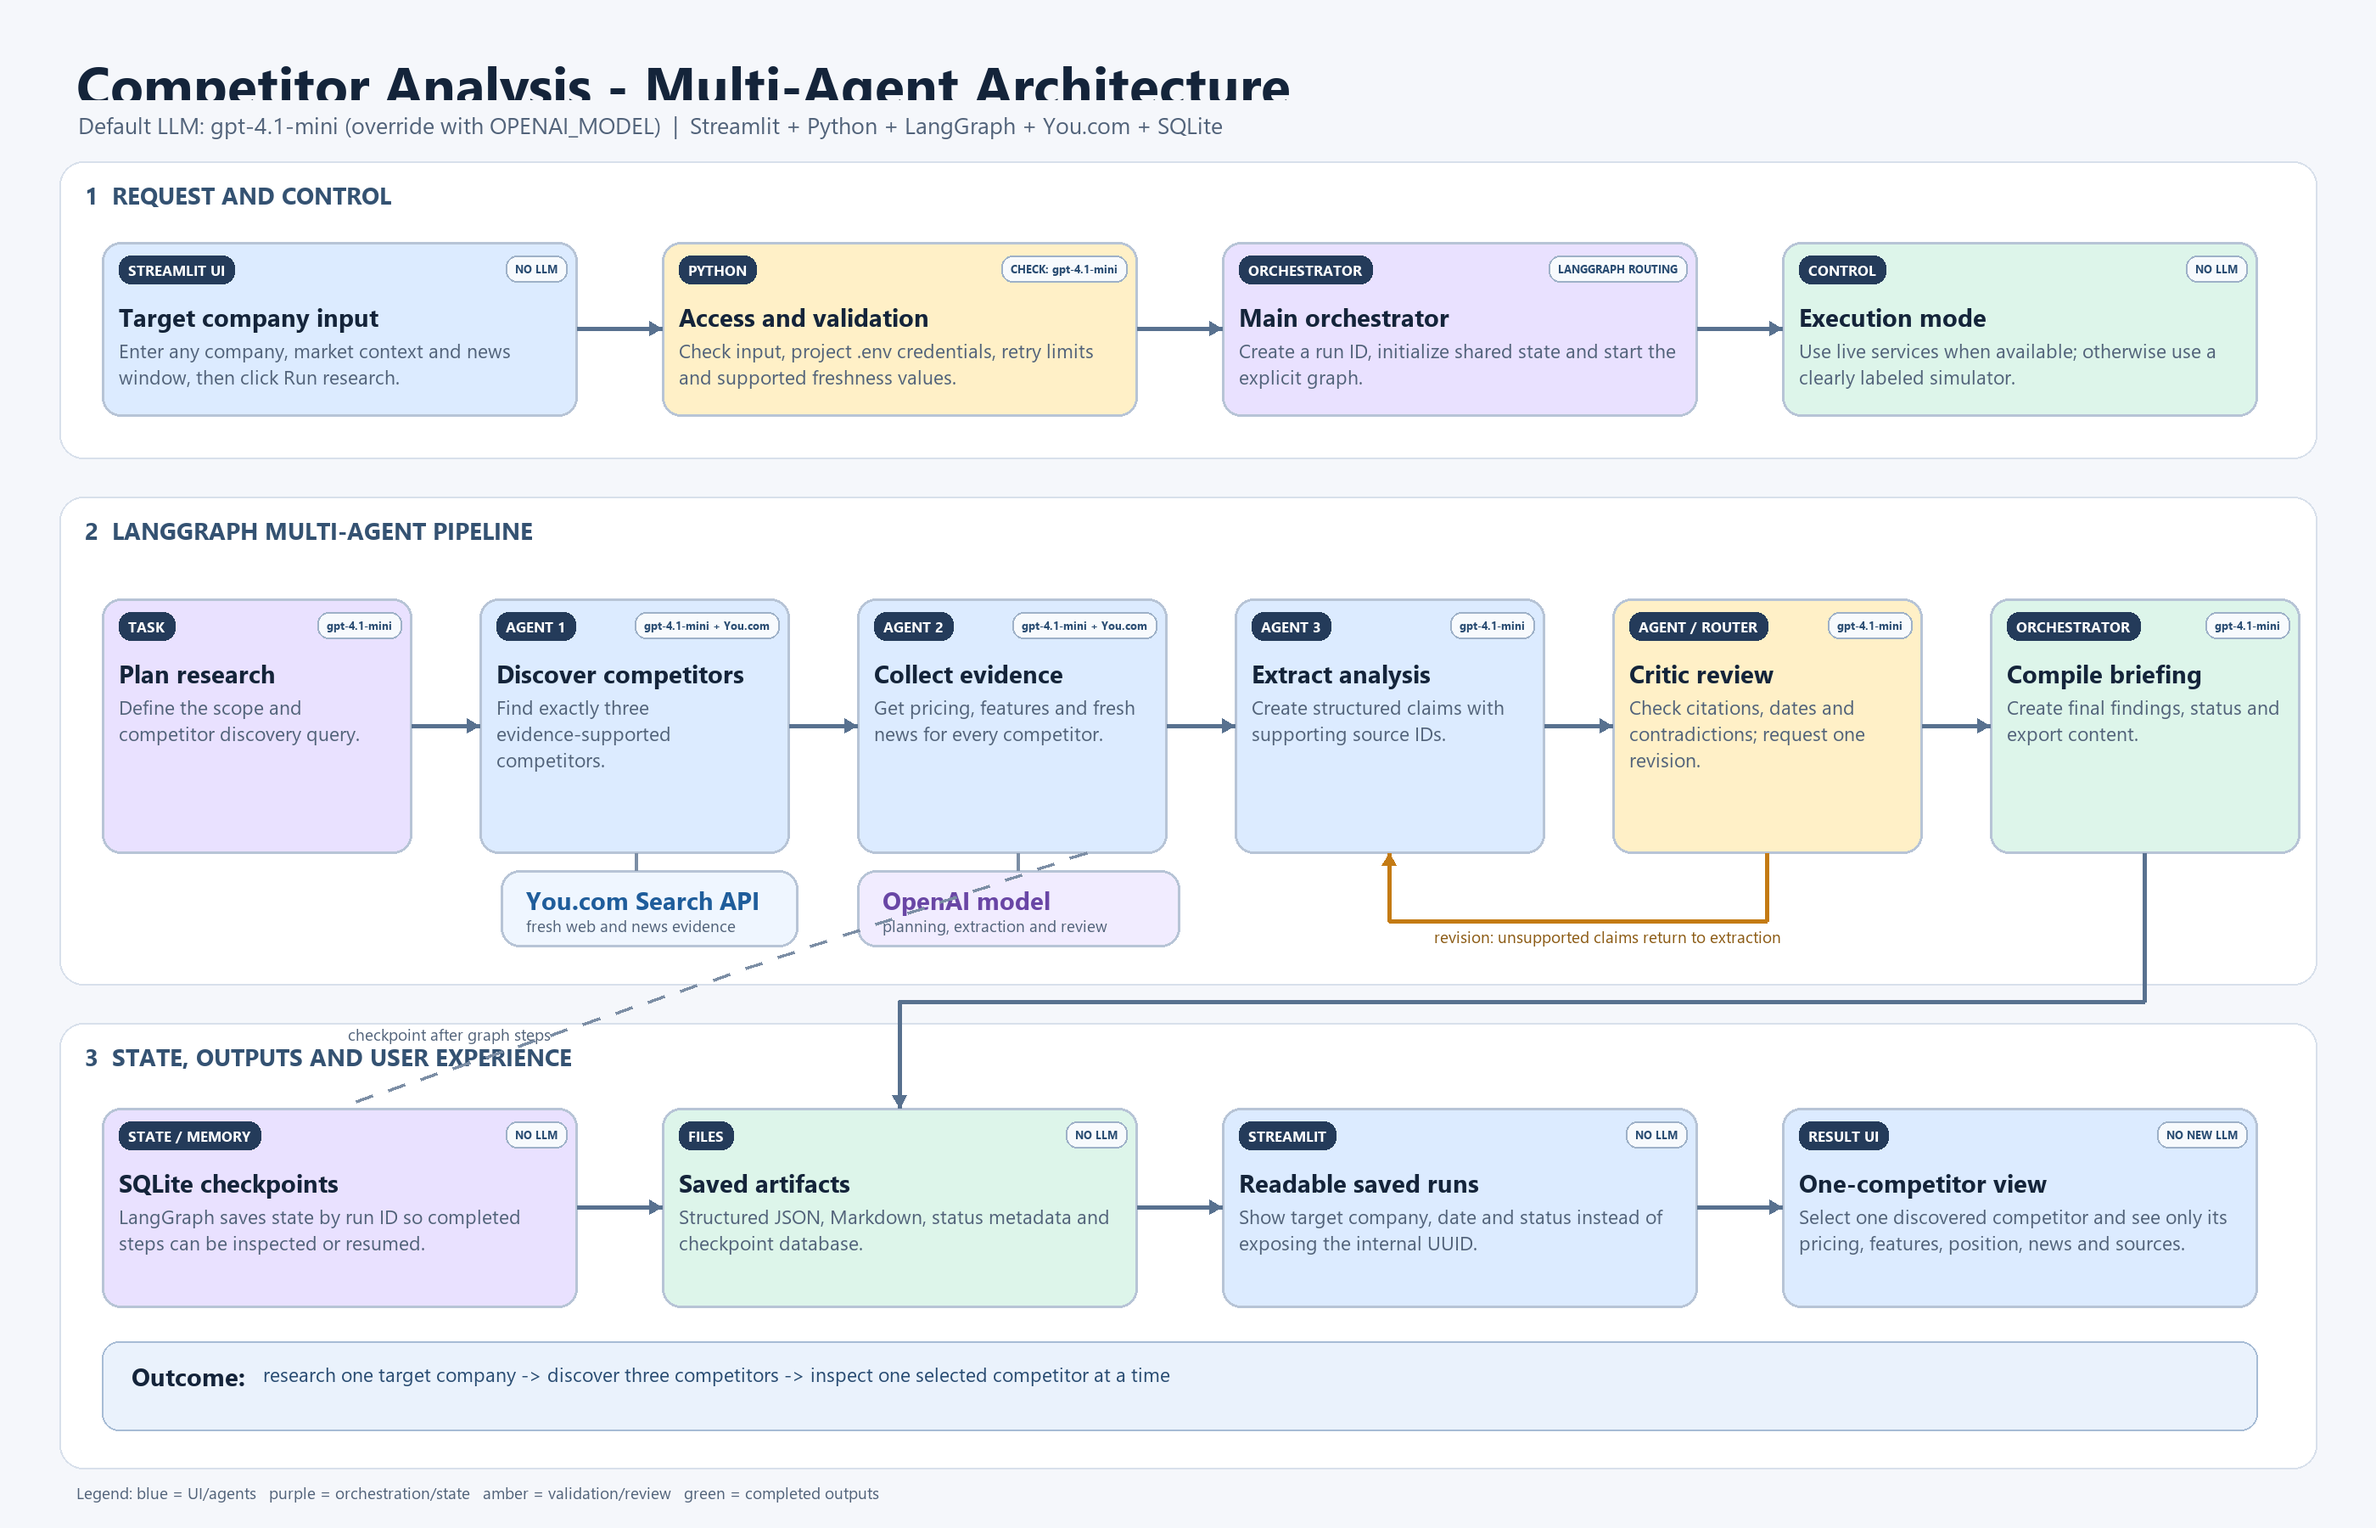
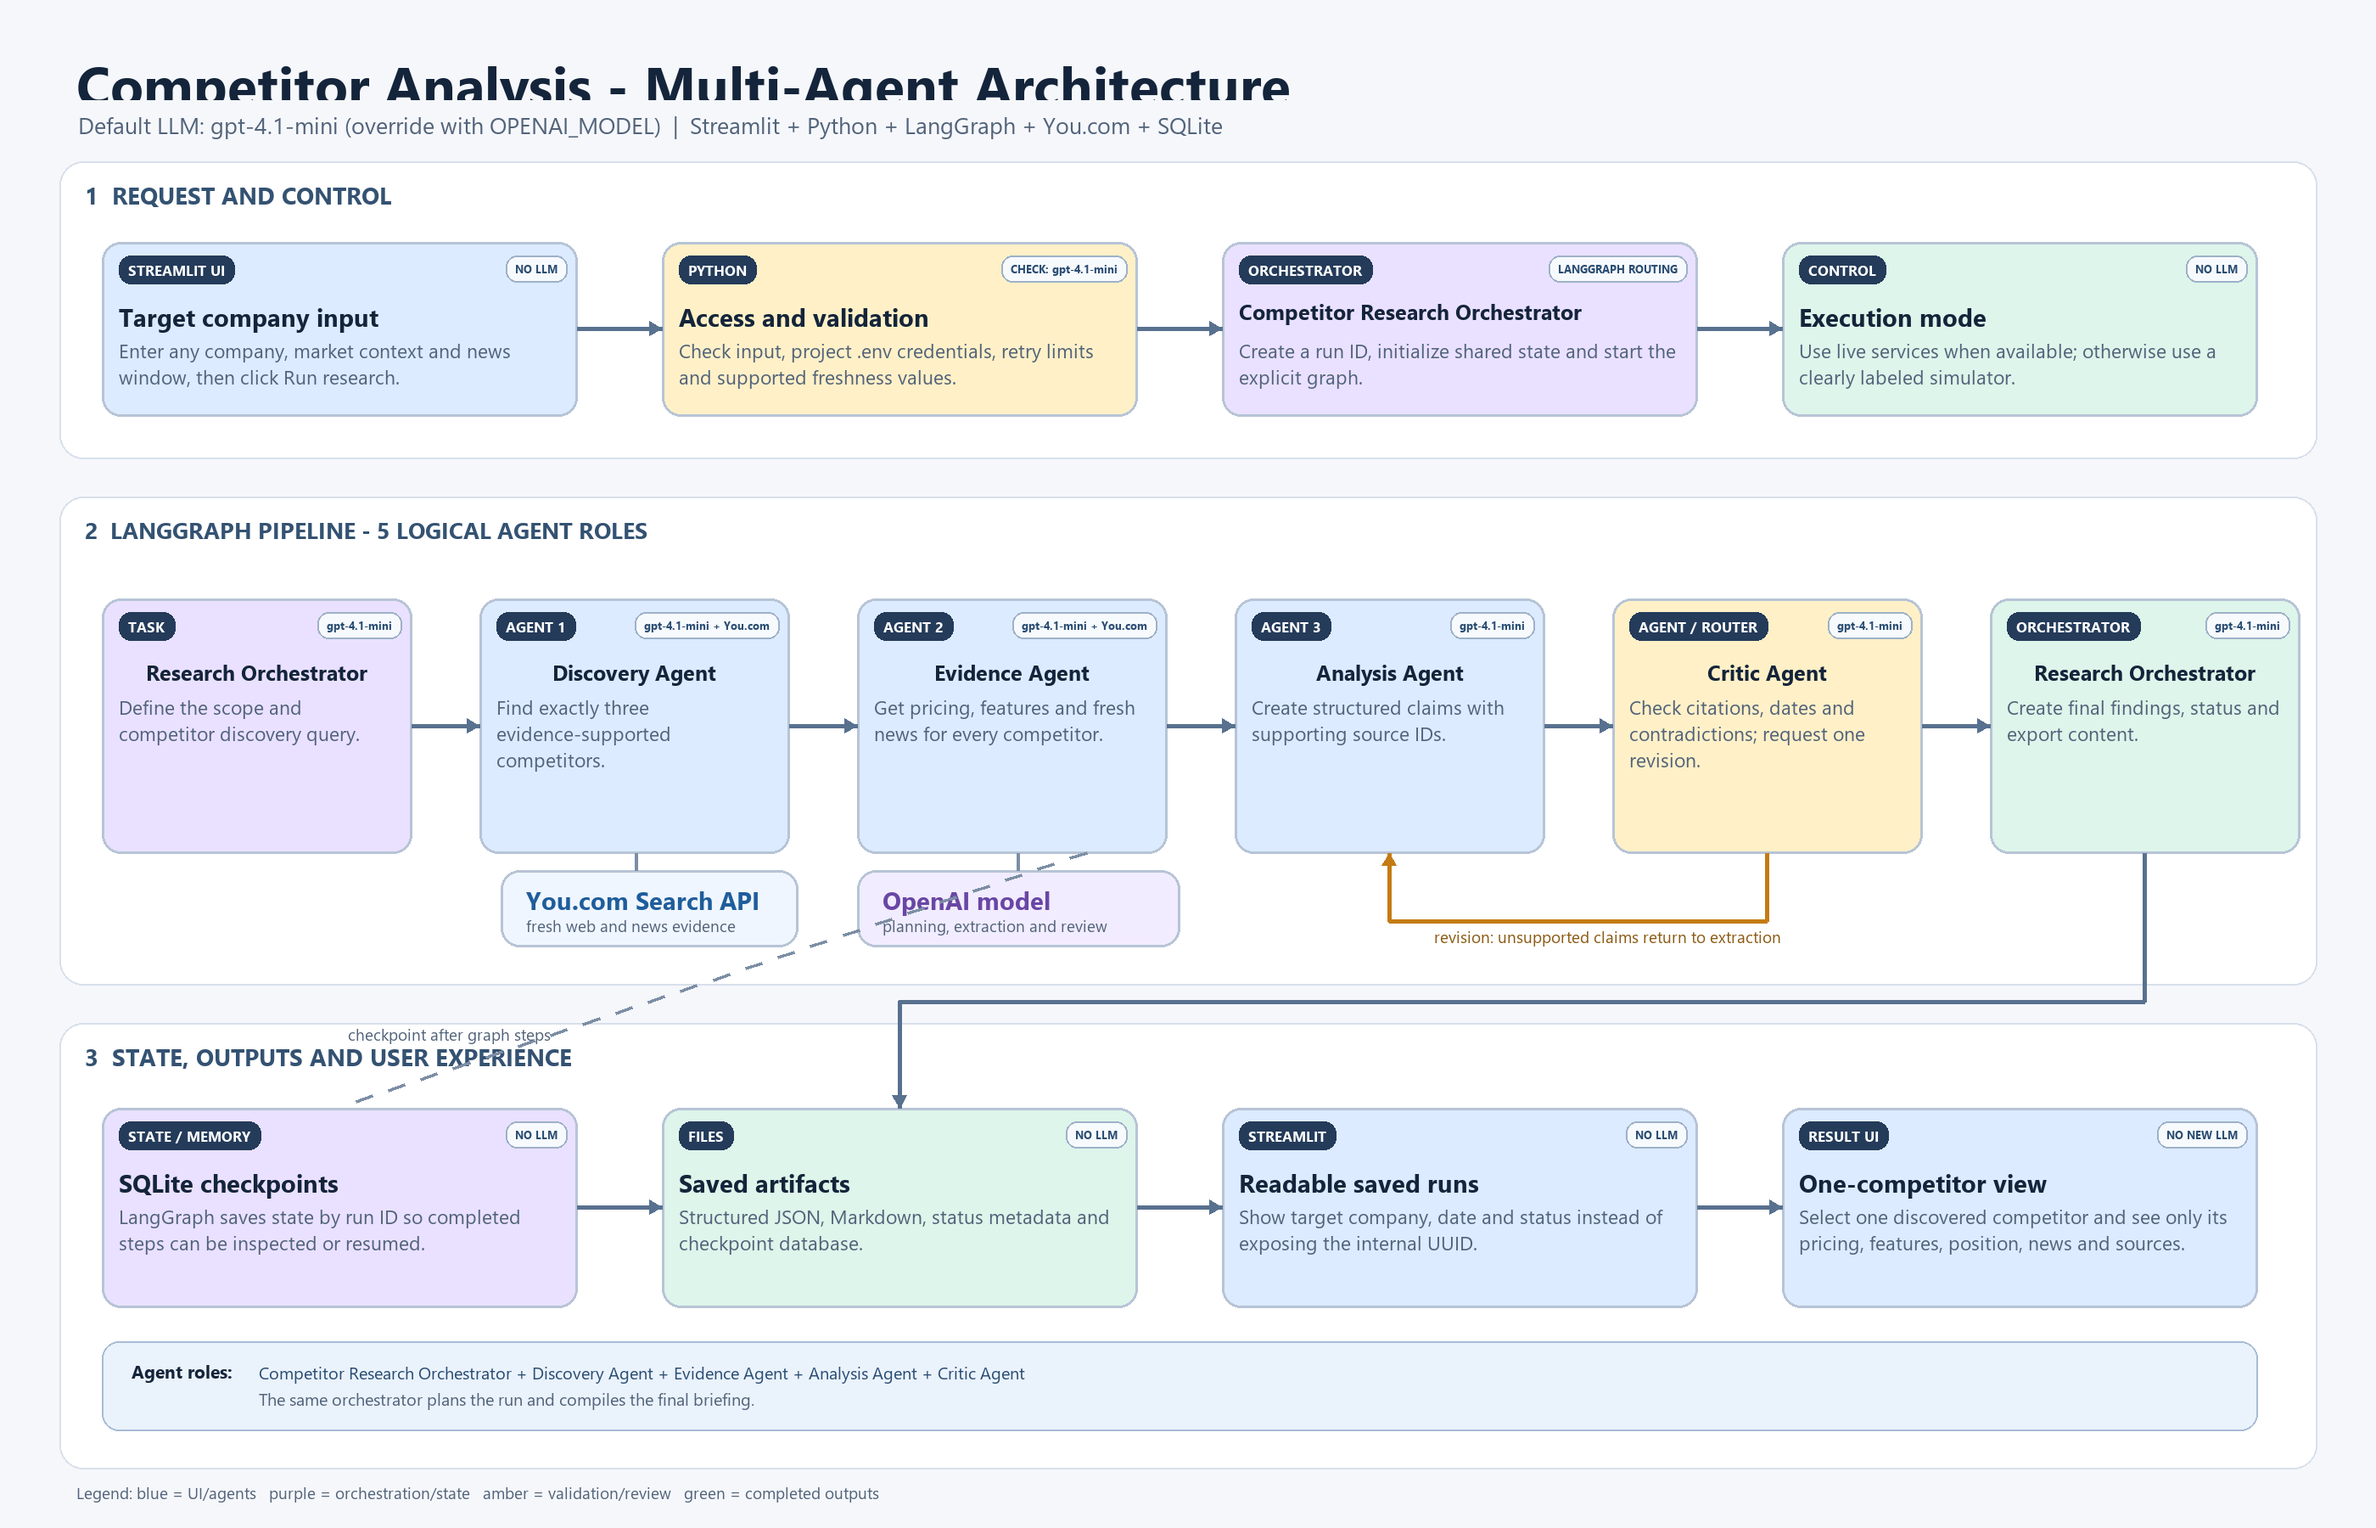
Document competitor analysis agent roles

diff --git a/README.md b/README.md
@@ -43,6 +43,18 @@ jupyter lab competitor_analysis.ipynb
 
 One target company is researched per run. The workflow retains three discovered competitors for evidence and traceability. The UI displays only the competitor selected in the dropdown.
 
+## Agent roles
+
+The architecture has five logical agent roles:
+
+1. **Competitor Research Orchestrator** — plans the run, controls LangGraph routing and compiles the final briefing.
+2. **Discovery Agent** — discovers three evidence-supported competitors with You.com.
+3. **Evidence Agent** — collects pricing, features, positioning and recent-news sources.
+4. **Analysis Agent** — converts evidence into structured, cited competitor findings.
+5. **Critic Agent** — validates citations, dates and contradictions and can request one revision.
+
+Planning and compilation are two tasks performed by the same orchestrator. The Evidence Agent role is instantiated once for each discovered competitor during a run.
+
 ## Credentials and safety
 
 Credentials load from the project `.env` first and are never printed. Generated results, logs and SQLite databases stay under `.research_runs/`, which is excluded from Git. Live research uses external APIs and may incur provider charges.
